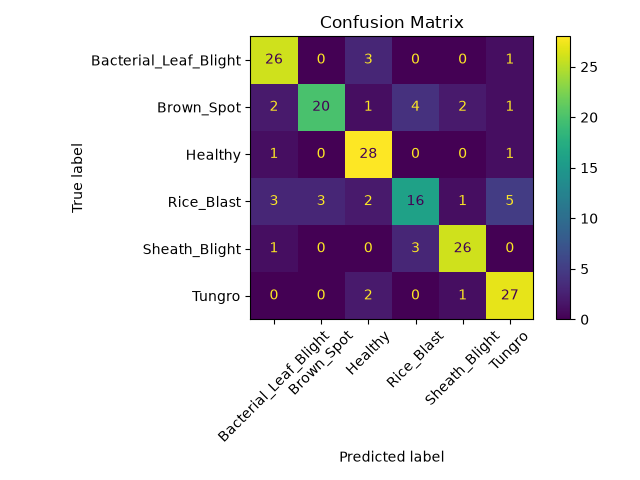
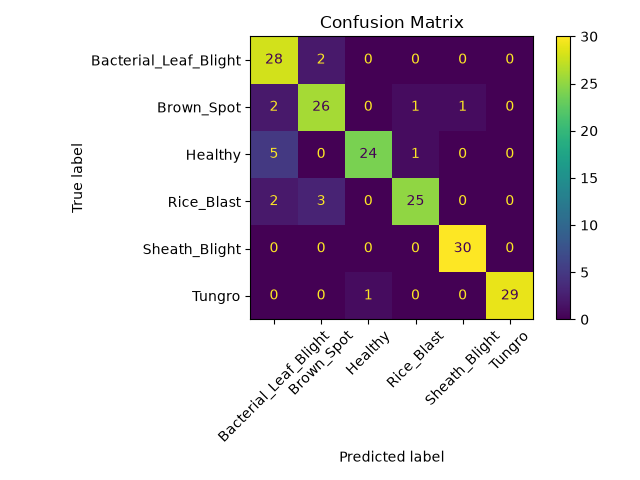
Release v0.2.0 fine-tuned model

diff --git a/ai/models/train.py b/ai/models/train.py
@@ -2,6 +2,7 @@ from pathlib import Path
 import json
 import tensorflow as tf
 import matplotlib.pyplot as plt
+import pandas as pd
 
 from efficientnet import build_efficientnet_model
 
@@ -16,9 +17,11 @@ RESULTS_DIR.mkdir(parents=True, exist_ok=True)
 
 IMAGE_SIZE = (224, 224)
 BATCH_SIZE = 16
-EPOCHS = 25
-VALIDATION_SPLIT = 0.20
 SEED = 42
+VALIDATION_SPLIT = 0.20
+
+INITIAL_EPOCHS = 20
+FINE_TUNE_EPOCHS = 25
 
 train_ds = tf.keras.utils.image_dataset_from_directory(
     TRAIN_DIR,
@@ -43,58 +46,137 @@ val_ds = tf.keras.utils.image_dataset_from_directory(
 class_names = train_ds.class_names
 num_classes = len(class_names)
 
+print("Class names:", class_names)
+
+CLASS_WEIGHTS_BY_NAME = {
+    "Bacterial_Leaf_Blight": 1.25,
+    "Rice_Blast": 1.15,
+    "Brown_Spot": 1.00,
+    "Healthy": 1.00,
+    "Sheath_Blight": 0.95,
+    "Tungro": 1.00
+}
+
+class_weight = {
+    index: CLASS_WEIGHTS_BY_NAME.get(class_name, 1.0)
+    for index, class_name in enumerate(class_names)
+}
+
+print("Class weights:", class_weight)
+
 with open(SAVED_MODEL_DIR / "class_names.json", "w") as f:
     json.dump(class_names, f, indent=4)
 
 AUTOTUNE = tf.data.AUTOTUNE
-
 train_ds = train_ds.prefetch(AUTOTUNE)
 val_ds = val_ds.prefetch(AUTOTUNE)
 
-model = build_efficientnet_model(num_classes=num_classes, image_size=IMAGE_SIZE)
-
-callbacks = [
-    tf.keras.callbacks.ModelCheckpoint(
-        filepath=SAVED_MODEL_DIR / "rice_model.keras",
-        monitor="val_accuracy",
-        save_best_only=True,
-        mode="max",
-        verbose=1
-    ),
-    tf.keras.callbacks.EarlyStopping(
-        monitor="val_loss",
-        patience=5,
-        restore_best_weights=True
-    )
-]
-
-history = model.fit(
-    train_ds,
-    validation_data=val_ds,
-    epochs=EPOCHS,
-    callbacks=callbacks
+model, base_model = build_efficientnet_model(
+    num_classes=num_classes,
+    image_size=IMAGE_SIZE
 )
 
+checkpoint = tf.keras.callbacks.ModelCheckpoint(
+    filepath=SAVED_MODEL_DIR / "rice_model.keras",
+    monitor="val_accuracy",
+    save_best_only=True,
+    mode="max",
+    verbose=1
+)
+
+early_stop = tf.keras.callbacks.EarlyStopping(
+    monitor="val_loss",
+    patience=8,
+    restore_best_weights=True,
+    verbose=1
+)
+
+reduce_lr = tf.keras.callbacks.ReduceLROnPlateau(
+    monitor="val_loss",
+    factor=0.3,
+    patience=3,
+    min_lr=1e-7,
+    verbose=1
+)
+
+print("\n==============================")
+print("STAGE 1: Training classifier head")
+print("==============================\n")
+
+history_1 = model.fit(
+    train_ds,
+    validation_data=val_ds,
+    epochs=INITIAL_EPOCHS,
+    callbacks=[checkpoint, early_stop, reduce_lr],
+    class_weight=class_weight
+)
+
+print("\n==============================")
+print("STAGE 2: Fine-tuning EfficientNetB0")
+print("==============================\n")
+
+base_model.trainable = True
+
+fine_tune_at = len(base_model.layers) - 80
+
+for layer in base_model.layers[:fine_tune_at]:
+    layer.trainable = False
+
+for layer in base_model.layers:
+    if isinstance(layer, tf.keras.layers.BatchNormalization):
+        layer.trainable = False
+
+model.compile(
+    optimizer=tf.keras.optimizers.Adam(learning_rate=0.000005),
+    loss="categorical_crossentropy",
+    metrics=["accuracy"]
+)
+
+history_2 = model.fit(
+    train_ds,
+    validation_data=val_ds,
+    epochs=INITIAL_EPOCHS + FINE_TUNE_EPOCHS,
+    initial_epoch=len(history_1.history["loss"]),
+    callbacks=[checkpoint, early_stop, reduce_lr],
+    class_weight=class_weight
+)
+
+accuracy = history_1.history.get("accuracy", []) + history_2.history.get("accuracy", [])
+val_accuracy = history_1.history.get("val_accuracy", []) + history_2.history.get("val_accuracy", [])
+loss = history_1.history.get("loss", []) + history_2.history.get("loss", [])
+val_loss = history_1.history.get("val_loss", []) + history_2.history.get("val_loss", [])
+
+history_df = pd.DataFrame({
+    "epoch": list(range(1, len(accuracy) + 1)),
+    "accuracy": accuracy,
+    "val_accuracy": val_accuracy,
+    "loss": loss,
+    "val_loss": val_loss
+})
+
+history_df.to_csv(RESULTS_DIR / "training_history.csv", index=False)
+
 plt.figure()
-plt.plot(history.history["accuracy"], label="Training Accuracy")
-plt.plot(history.history["val_accuracy"], label="Validation Accuracy")
+plt.plot(accuracy, label="Training Accuracy")
+plt.plot(val_accuracy, label="Validation Accuracy")
 plt.xlabel("Epoch")
 plt.ylabel("Accuracy")
 plt.legend()
-plt.title("Training and Validation Accuracy")
+plt.title("Fine-Tuned Model: Training and Validation Accuracy")
 plt.savefig(RESULTS_DIR / "training_history.png")
 plt.close()
 
 plt.figure()
-plt.plot(history.history["loss"], label="Training Loss")
-plt.plot(history.history["val_loss"], label="Validation Loss")
+plt.plot(loss, label="Training Loss")
+plt.plot(val_loss, label="Validation Loss")
 plt.xlabel("Epoch")
 plt.ylabel("Loss")
 plt.legend()
-plt.title("Training and Validation Loss")
+plt.title("Fine-Tuned Model: Training and Validation Loss")
 plt.savefig(RESULTS_DIR / "training_loss.png")
 plt.close()
 
-print("\nTraining completed.")
+print("\nTraining and fine-tuning completed.")
 print(f"Best model saved to: {SAVED_MODEL_DIR / 'rice_model.keras'}")
 print(f"Class names saved to: {SAVED_MODEL_DIR / 'class_names.json'}")
+print(f"Training history saved to: {RESULTS_DIR / 'training_history.csv'}")

diff --git a/ai/models/efficientnet.py b/ai/models/efficientnet.py
@@ -3,13 +3,14 @@ from tensorflow.keras import layers, models
 from tensorflow.keras.applications import EfficientNetB0
 
 
-def build_efficientnet_model(num_classes, image_size=(224, 224), train_base=False):
+def build_efficientnet_model(num_classes, image_size=(224, 224)):
     data_augmentation = tf.keras.Sequential(
         [
             layers.RandomFlip("horizontal"),
-            layers.RandomRotation(0.10),
+            layers.RandomRotation(0.08),
             layers.RandomZoom(0.10),
             layers.RandomContrast(0.10),
+            layers.RandomBrightness(0.05),
         ],
         name="data_augmentation"
     )
@@ -20,13 +21,21 @@ def build_efficientnet_model(num_classes, image_size=(224, 224), train_base=Fals
         input_shape=(image_size[0], image_size[1], 3)
     )
 
-    base_model.trainable = train_base
+    base_model.trainable = False
 
     inputs = layers.Input(shape=(image_size[0], image_size[1], 3))
+
     x = data_augmentation(inputs)
+
+    # EfficientNet in Keras already includes preprocessing.
+    # Do not divide image values by 255.
     x = base_model(x, training=False)
+
     x = layers.GlobalAveragePooling2D()(x)
-    x = layers.Dropout(0.30)(x)
+    x = layers.Dropout(0.25)(x)
+    x = layers.Dense(256, activation="relu")(x)
+    x = layers.Dropout(0.15)(x)
+
     outputs = layers.Dense(num_classes, activation="softmax")(x)
 
     model = models.Model(inputs, outputs)
@@ -37,4 +46,4 @@ def build_efficientnet_model(num_classes, image_size=(224, 224), train_base=Fals
         metrics=["accuracy"]
     )
 
-    return model
+    return model, base_model

diff --git a/ai/VERSION.md b/ai/VERSION.md
@@ -22,3 +22,31 @@ This version contains the first working baseline model pipeline for the rice lea
 
 ### Next Target
 v0.2.0 will focus on model improvement through fine-tuning, improved augmentation, full evaluation, and better prediction confidence.
+
+--------------------------------------------------
+
+## v0.2.0 - Fine-Tuned Model Release
+
+This version contains the first fine-tuned EfficientNetB0 model for the Rice Leaf Disease Detection System.
+
+### Completed
+- Improved the baseline EfficientNetB0 transfer learning model through fine-tuning.
+- Reduced dropout and adjusted the classifier head.
+- Fine-tuned selected EfficientNetB0 layers.
+- Applied dynamic data augmentation during training.
+- Used class weighting to improve weaker disease classes.
+- Improved model performance on the internal test set.
+
+### Internal Test Set Performance
+- Accuracy: 90.00%
+- Macro Precision: 90.82%
+- Macro Recall: 90.00%
+- Macro F1-score: 90.08%
+- Macro ROC AUC: 0.9916
+- Weighted ROC AUC: 0.9916
+
+### Current Limitation
+Although the model achieved strong internal test performance, testing with externally sourced internet images showed that the model still struggles with some real-world images. Some predictions were incorrect or had low to moderate confidence scores. Further fine-tuning and dataset improvement are needed before final validation.
+
+### Next Target
+The next version will focus on improving generalization using additional external images, reducing incorrect predictions, and improving confidence scores before conducting 5-fold cross-validation.
